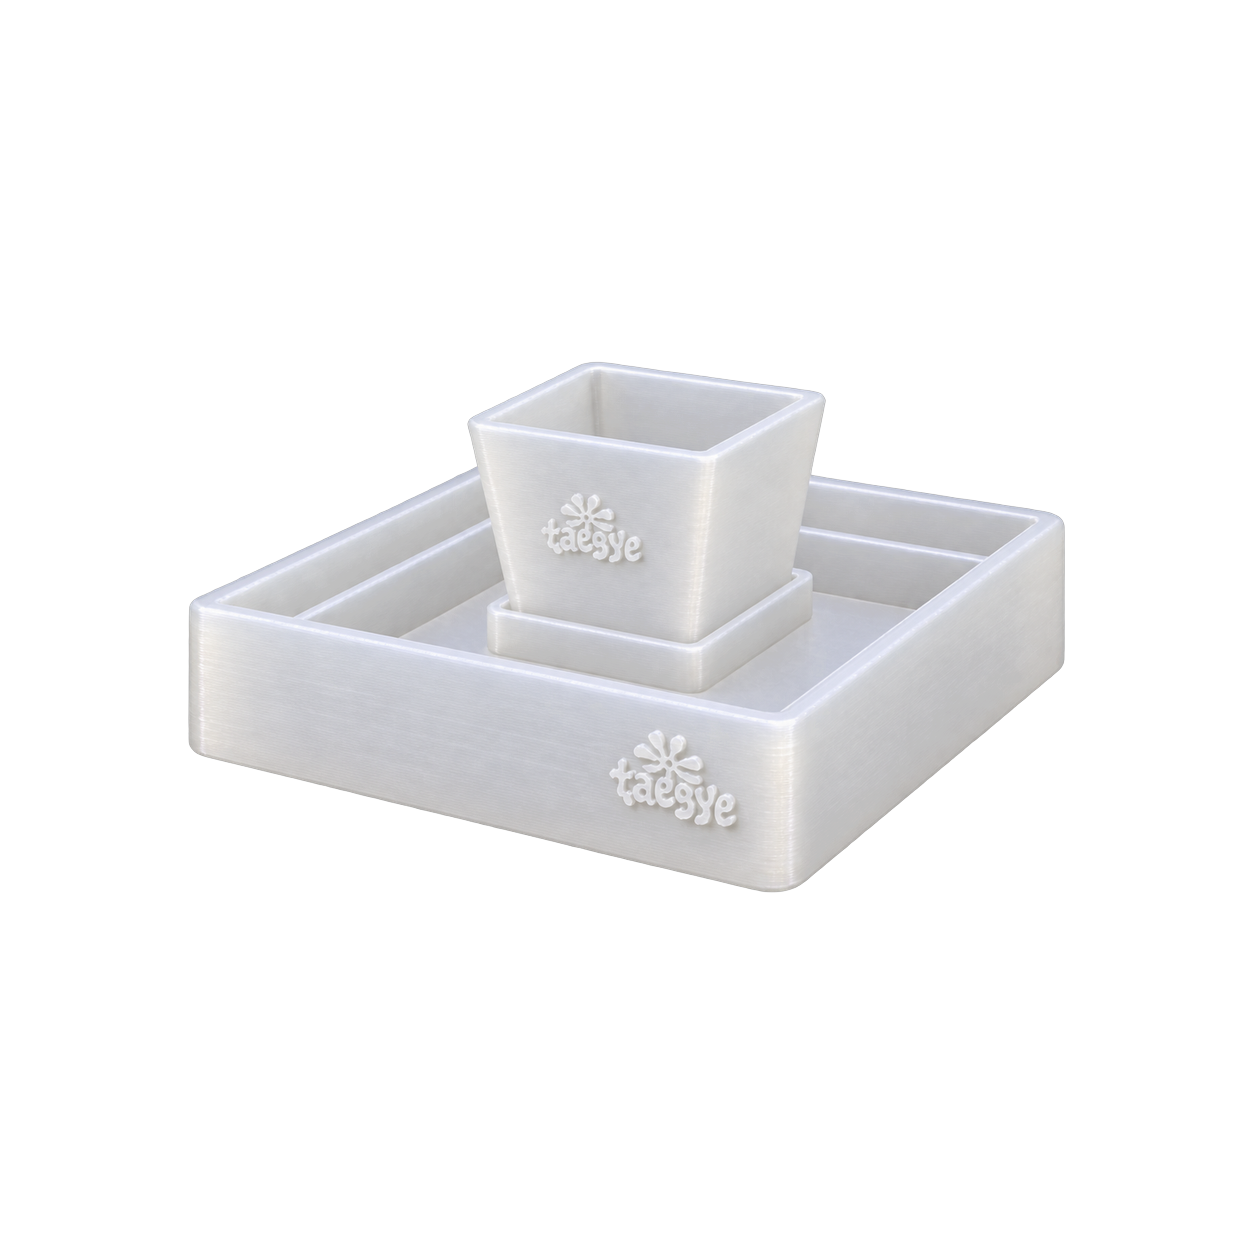
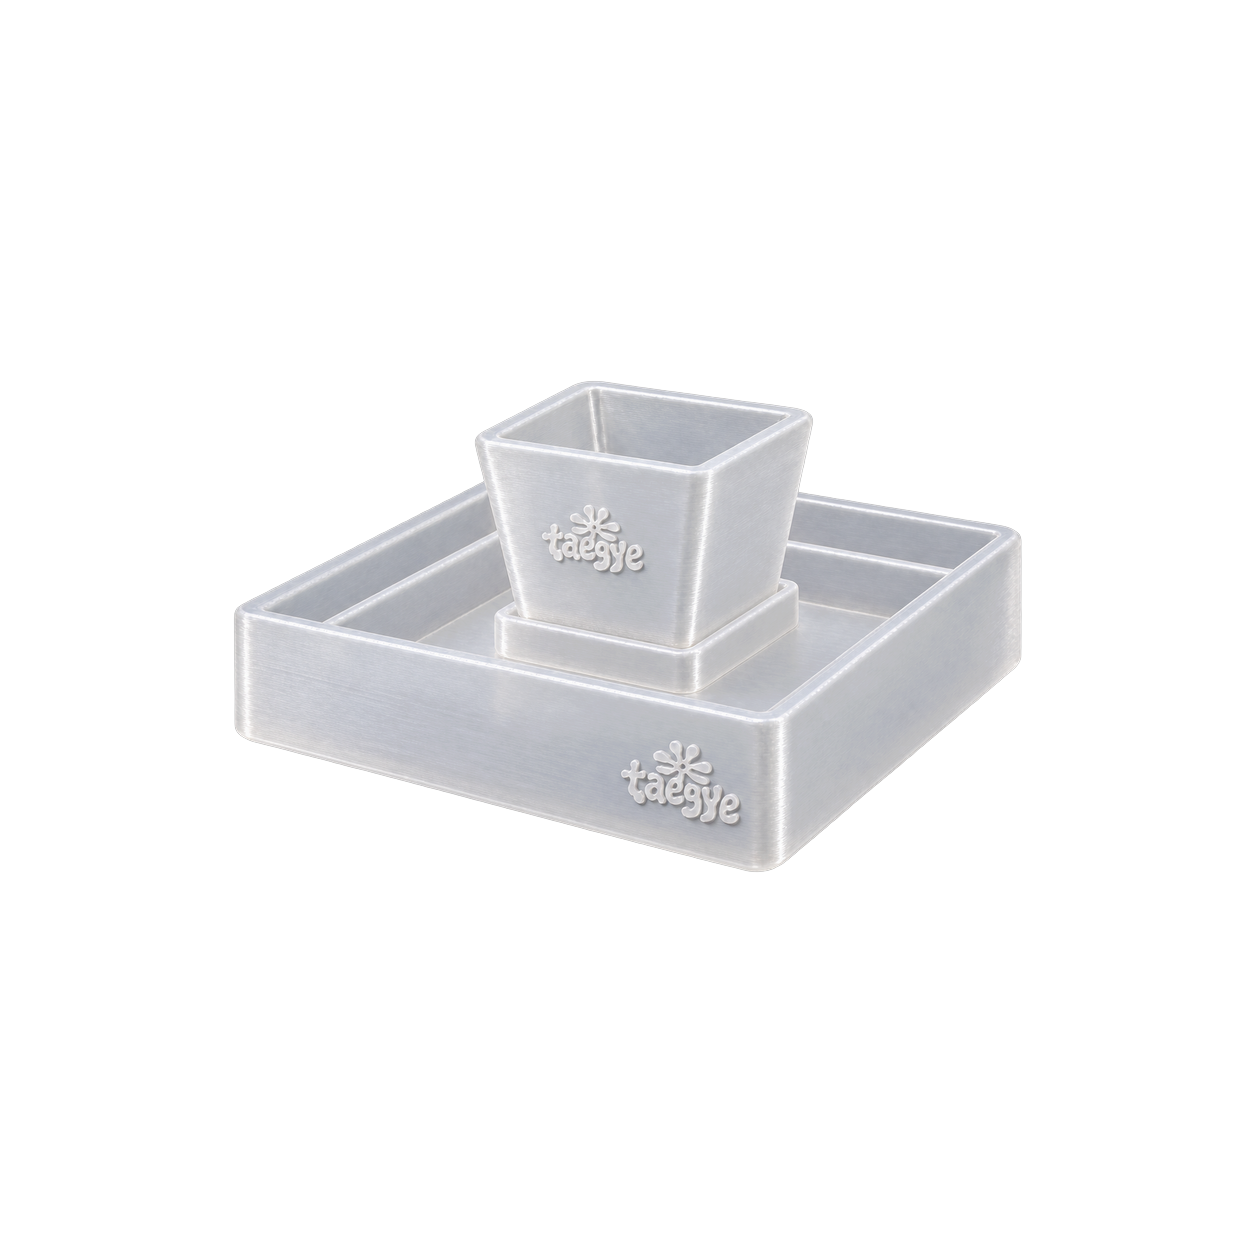
Shrink Drain Tower by 20% and replace the One Port empty photos.
Drain Tower 80, 40, and 20 keep their size ratios and centers. One Port empty shots use the new color files at about 90% of the previous on-site size. One Port has no planted photos to leave in place.

Changed region(s): [[0.1244, 0.2799, 0.8708, 0.7153]]

diff --git a/src/lib/site.ts b/src/lib/site.ts
@@ -496,7 +496,7 @@ export const NEW_PRODUCTS: NewProduct[] = [
     dimensions: "",
     planting: "",
     price: MINI_PORT_HOLLOW_PRICE,
-    emptySrc: "/products/mini-port-hollow.png",
+    emptySrc: "/products/mini-port-hollow.png?v=3",
     emptyAlt: `TAEGYE One Port 141, ${finishLabel("HOLLOW")}`,
   },
   {
@@ -508,7 +508,7 @@ export const NEW_PRODUCTS: NewProduct[] = [
     dimensions: "",
     planting: "",
     price: MINI_PORT_PRICE,
-    emptySrc: "/products/mini-port-purple.png?v=2",
+    emptySrc: "/products/mini-port-purple.png?v=3",
     emptyAlt: `TAEGYE One Port 141, ${finishLabel("ODD")}`,
   },
   {
@@ -520,7 +520,7 @@ export const NEW_PRODUCTS: NewProduct[] = [
     dimensions: "",
     planting: "",
     price: MINI_PORT_PRICE,
-    emptySrc: "/products/mini-port-black.png?v=2",
+    emptySrc: "/products/mini-port-black.png?v=3",
     emptyAlt: `TAEGYE One Port 141, ${finishLabel("VOID")}`,
   },
   {
@@ -532,7 +532,7 @@ export const NEW_PRODUCTS: NewProduct[] = [
     dimensions: "",
     planting: "",
     price: MINI_PORT_PRICE,
-    emptySrc: "/products/mini-port-white.png?v=2",
+    emptySrc: "/products/mini-port-white.png?v=3",
     emptyAlt: `TAEGYE One Port 141, ${finishLabel("MIST")}`,
   },
   {
@@ -612,7 +612,7 @@ export const NEW_PRODUCTS: NewProduct[] = [
     dimensions: "W 55 × D 55 × H 80 mm",
     planting: "",
     price: DRAIN_TOWER_PRICE_80,
-    emptySrc: "/products/drain-tower-80.png",
+    emptySrc: "/products/drain-tower-80.png?v=4",
     emptyAlt: `TAEGYE Drain Tower 80, ${finishLabel("VOID")}`,
   },
   {
@@ -624,7 +624,7 @@ export const NEW_PRODUCTS: NewProduct[] = [
     dimensions: "W 55 × D 55 × H 45 mm",
     planting: "",
     price: DRAIN_TOWER_PRICE_40,
-    emptySrc: "/products/drain-tower-40.png?v=3",
+    emptySrc: "/products/drain-tower-40.png?v=4",
     emptyAlt: `TAEGYE Drain Tower 40, ${finishLabel("VOID")}`,
   },
   {
@@ -636,7 +636,7 @@ export const NEW_PRODUCTS: NewProduct[] = [
     dimensions: "W 55 × D 55 × H 25 mm",
     planting: "",
     price: DRAIN_TOWER_PRICE_20,
-    emptySrc: "/products/drain-tower-20.png?v=3",
+    emptySrc: "/products/drain-tower-20.png?v=4",
     emptyAlt: `TAEGYE Drain Tower 20, ${finishLabel("VOID")}`,
   },
 ];
